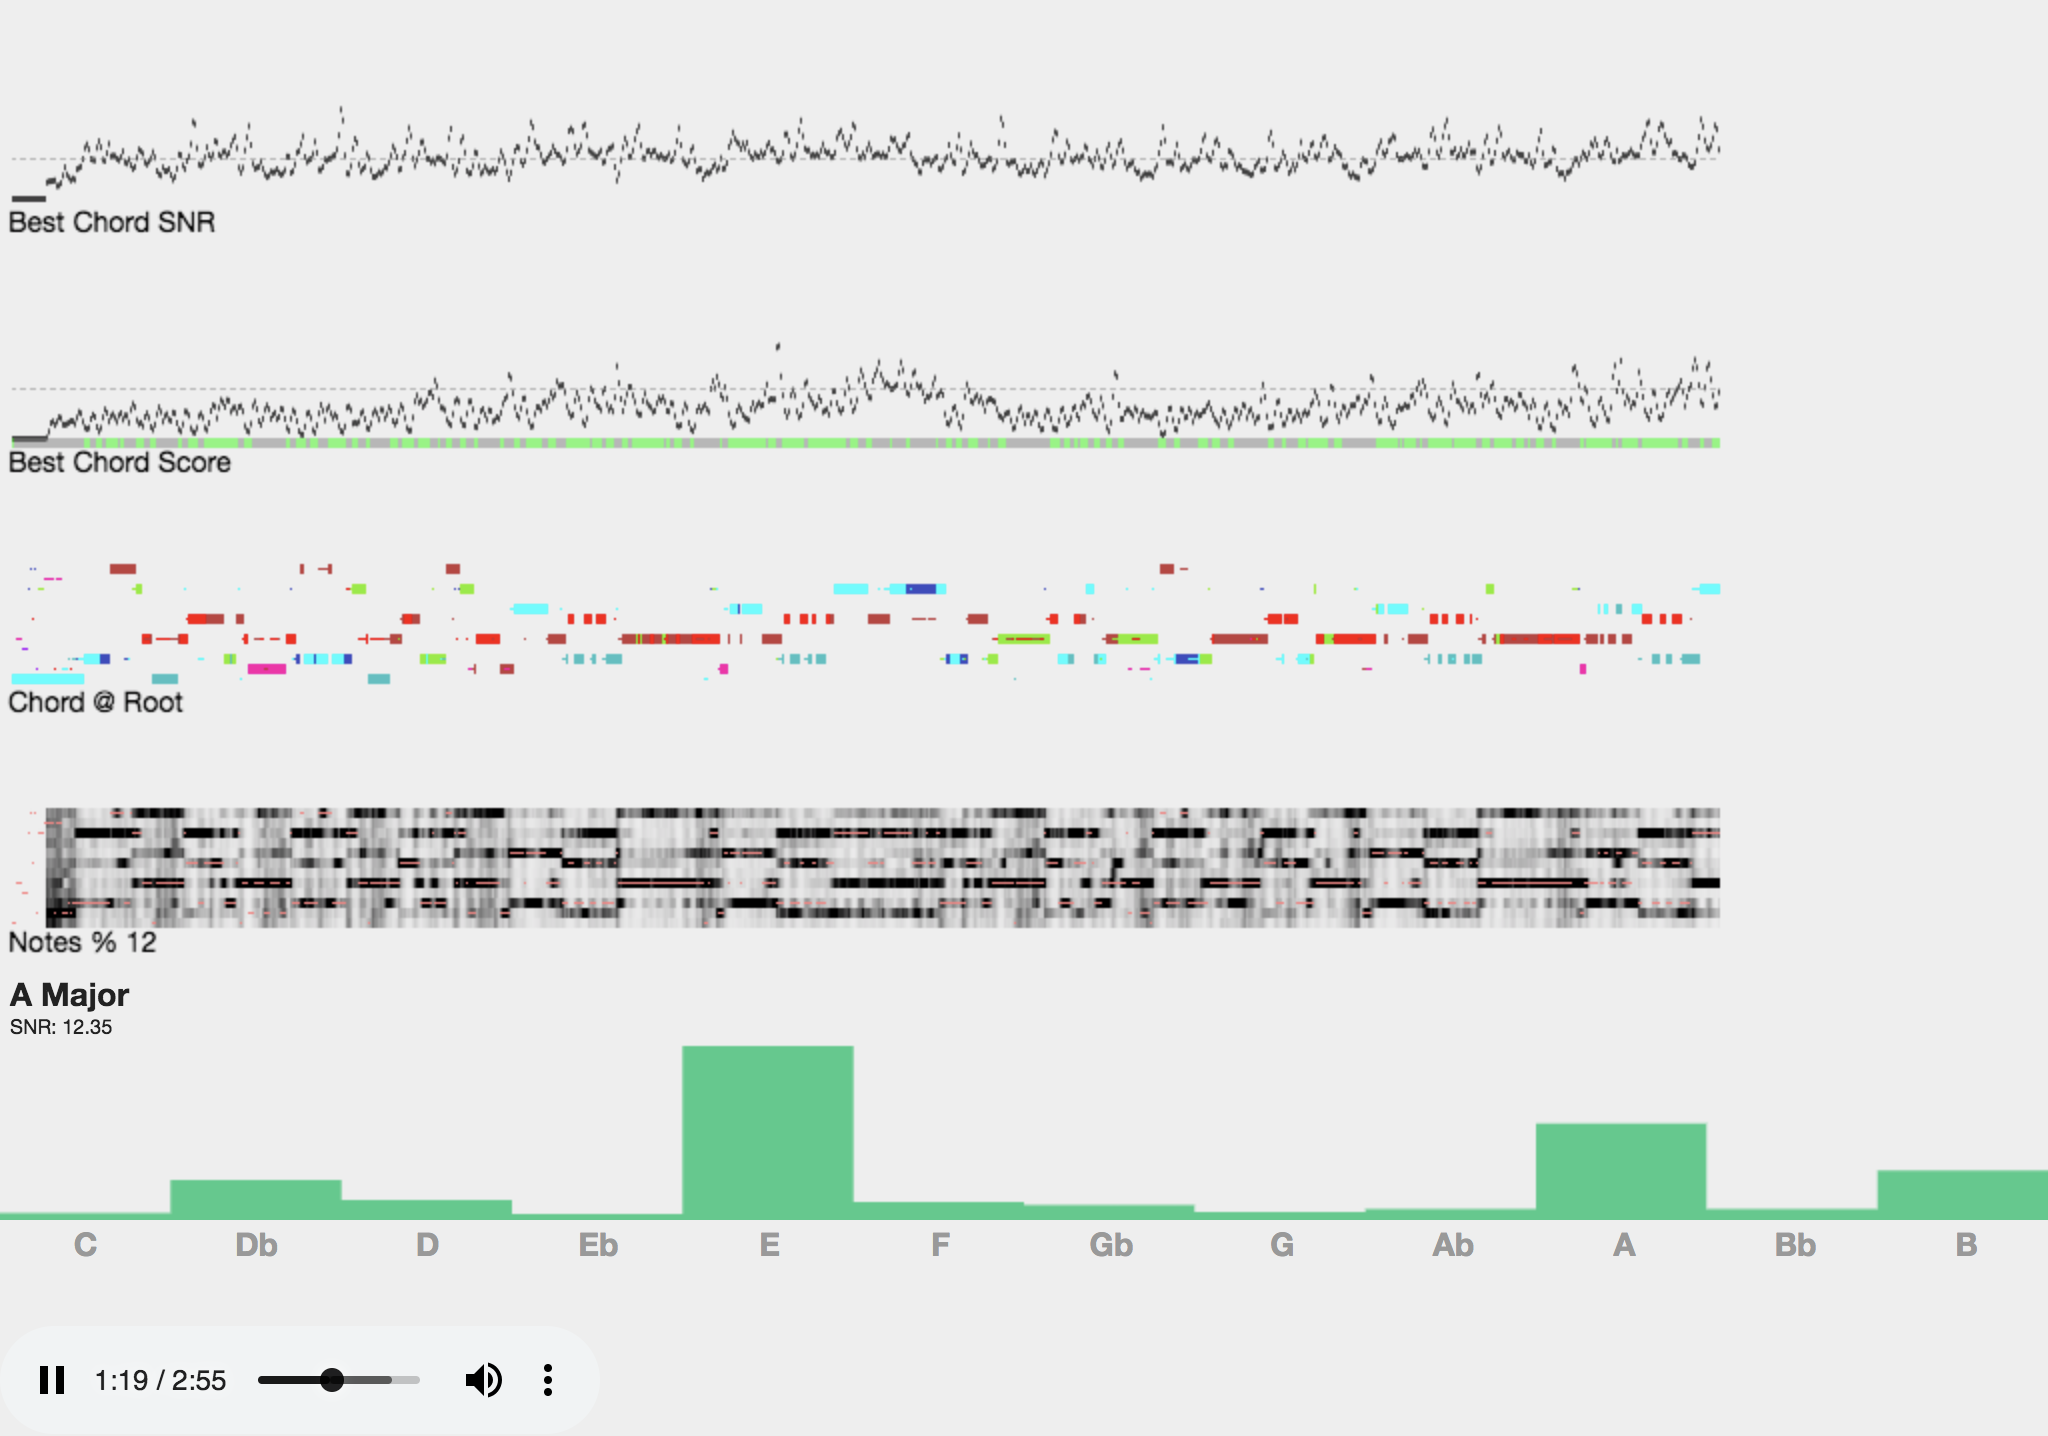
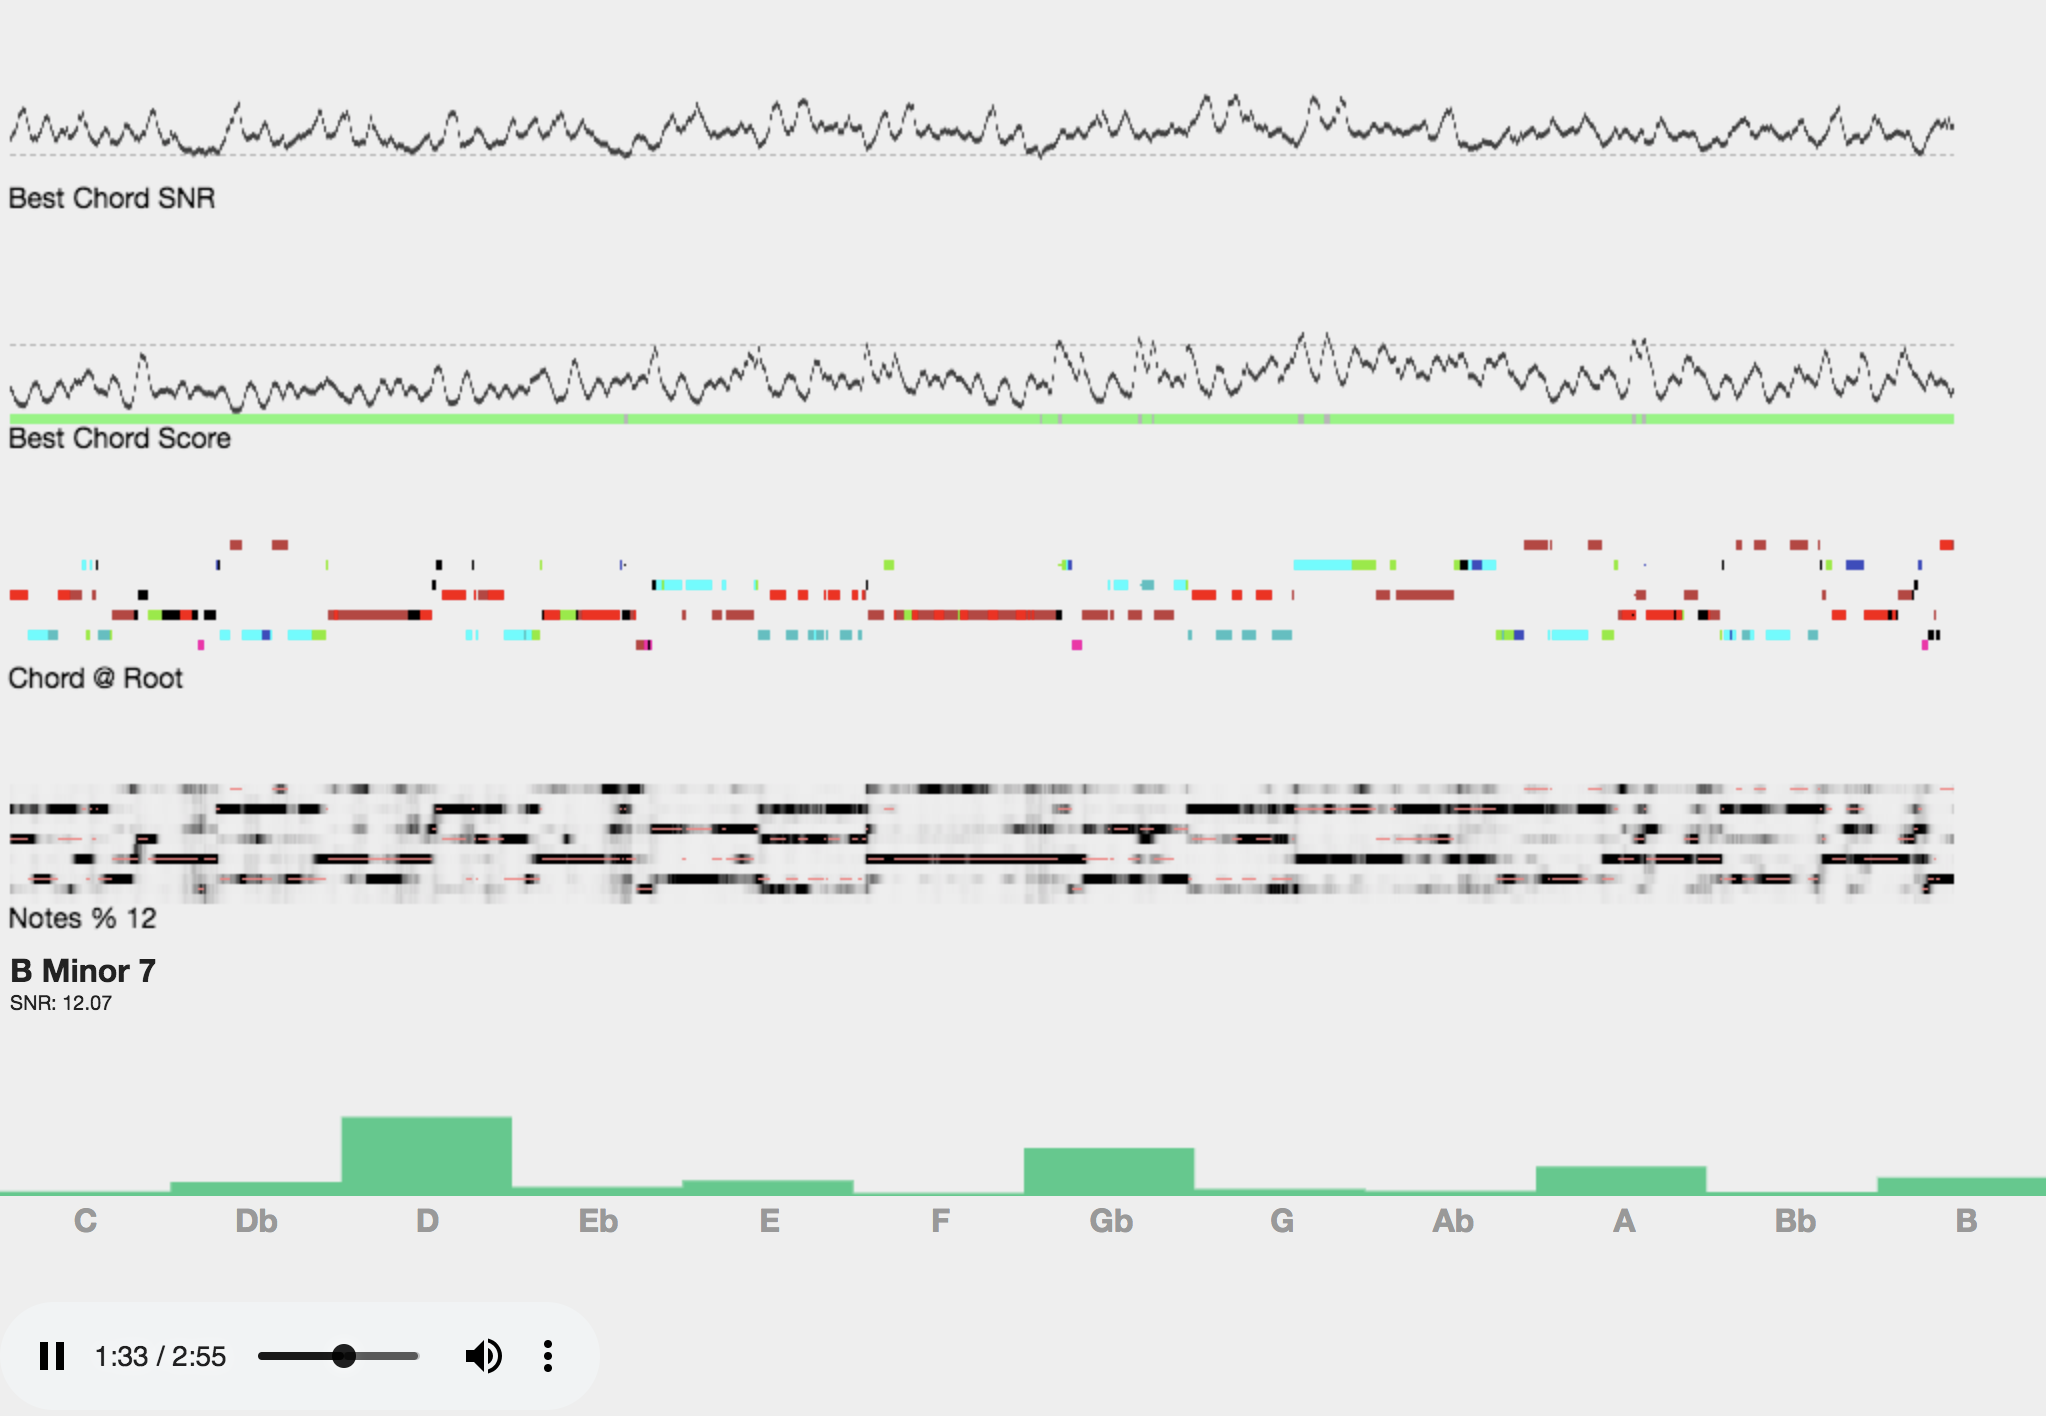
minor.

diff --git a/example/index.js b/example/index.js
@@ -84,7 +84,7 @@ function runTest(useMic){
   var chordScoreEl = document.getElementById("chordScore");
   // --
   var currentBestChord      = null;
-  var bestChordDBThresh     =  8.0;
+  var bestChordDBThresh     =  5.0;
   var bestChordScoreThresh  = 0.70; // note that lower is better here.
   var disallowSusChords     = false;
 
@@ -126,9 +126,10 @@ function runTest(useMic){
       for(var i=0; i<12; i++) cgramSortedLowToHigh.push(cgram[i]);
       cgramSortedLowToHigh.sort();
       // --
-      var cgramMax = Math.max(0.0001, cgramSortedLowToHigh[11]);
+      var cgramMax = Math.max(0.001, cgramSortedLowToHigh[11]);
       for(var i=0; i<12; i++){
-        ctx.fillStyle = "rgba(0,0,0,"+(cgram[i]/cgramMax).toFixed(3)+")";
+        let cgramAlpha = (cgram[i]/cgramMax);
+        ctx.fillStyle = "rgba(0,0,0,"+(cgramAlpha*cgramAlpha).toFixed(3)+")";
         ctx.fillRect(frameIndex*xStep,h-Y_NOTES-5*i,xStep,5);
       }
       ctx.fillStyle = "rgba(64,64,64,1)";
